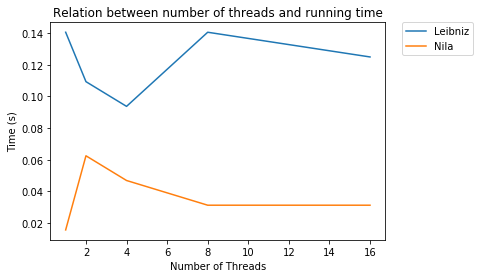
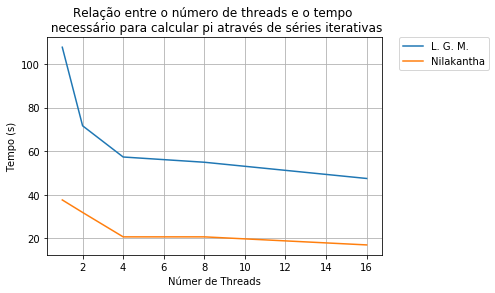
SO25CP 17/07/2020

Changed region(s): [[0.0, 0.0288, 1.0, 0.9784], [0.3125, 0.259, 0.3438, 0.3165], [0.2188, 0.6043, 0.25, 0.6331]]

diff --git a/Trabalho 3/Trabalho3TUDO.c b/Trabalho 3/Trabalho3TUDO.c
@@ -1,0 +1,95 @@
+#include <stdio.h>
+#include <stdlib.h>
+#include <math.h>
+#include <pthread.h>
+#include <unistd.h>
+#include <time.h>
+
+#define NUM_TERMOS 1e9  //Define o número mínimo de termos a ser calculado
+int NUM_THREADS[5] = {1, 2, 4, 8, 16};   //Define o número de threads
+int NUM_TER_THR;  //Define o número de Termos Por Thread
+double *result_piLGM, *result_piNila; //Arrays para resultados parciais
+
+// gcc Trabalho3.c -o Trabalho3 -lm -lpthread && ./Trabalho3 >> ResultadosMeuPc.txt
+
+/*  Séries para aproximação de PI
+ *  Nilakantha:
+ *   pi = 4 * [(3/4) + (1/(2*3*4)) - (1/(4*5*6)) + (1/(6*7*8)) ]
+ *   pi = 4 * [(3/4) + sum( [(-1)^(n+1)] * [1/((2*n)*(2*n + 1)*(2 * n + 2))] ) ]
+ *  
+ *  Leibniz-Gregory-Madhava
+ *   pi = 4 * (1 - 1/3 + 1/5 - 1/7 + 1/)
+ * **/
+
+// Funções para o cálculo dos termos
+double termoLGM(double n){
+    return pow(-1, n) * 1/(2*n + 1);
+}
+
+double termoNila(double n){
+    if((int)n % 2 != 0)
+        return (double)1/(2*n * (2*n + 1) * (2*n + 2));
+    return (double)-1/(2*n * (2*n + 1) * (2*n + 2));
+}
+
+void *LGM(void *threadID){
+    long tid = (long)threadID;
+    for(long i = tid*NUM_TER_THR; i < tid*NUM_TER_THR + NUM_TER_THR; i++)
+        result_piLGM[tid] += termoLGM((double)i);
+    pthread_exit(NULL);
+}
+
+void *Nila(void *threadID){
+    long tid = (long)threadID;
+    for(long i = tid*NUM_TER_THR; i < tid*NUM_TER_THR + NUM_TER_THR; i++)
+        result_piNila[tid] += termoNila((double)i+1);
+    pthread_exit(NULL);
+}
+
+void main(void){
+    
+    long i, status;
+    double resultLGM = 0, resultNila = 0; 
+    clock_t tempoLGM, tempoNila; 
+    for(int idx = 0; idx < 5; idx++){
+        result_piLGM = malloc(sizeof(double) * NUM_THREADS[idx]);
+        result_piNila = malloc(sizeof(double) * NUM_THREADS[idx]);
+        NUM_TER_THR = NUM_TERMOS / NUM_THREADS[idx];
+        printf("Threads: %d\t(%.0lf termos)\n", NUM_THREADS[idx], NUM_TERMOS);
+        pthread_t thread[NUM_THREADS[idx]];//, threadNila[NUM_THREADS];
+        
+        //Executando as threads da Série Leibniz-Gregory-Madhava
+        tempoLGM = clock();
+        for(i = 0; i < NUM_THREADS[idx]; i++){
+            status = pthread_create(&thread[i], NULL, LGM, (void*)i);
+            if(status) {
+                perror("pthread_create");
+                exit(1);
+            }
+            
+        }
+        for(i = 0; i < NUM_THREADS[idx]; i++){
+            pthread_join(thread[i], NULL);
+            resultLGM += result_piLGM[i];
+        }
+        tempoLGM = clock() - tempoLGM;    
+        printf("LGM \tTempo: %.5f s \t%.15f\n", (double)tempoLGM/CLOCKS_PER_SEC, 4*resultLGM);
+
+        //Executando as threads da Série Nilakantha
+        tempoNila = clock();
+        for(i = 0; i < NUM_THREADS[idx]; i++){
+            status = pthread_create(&thread[i], NULL, Nila, (void*)i);
+            if(status) {
+                perror("pthread_create");
+                exit(1);
+            }
+        }
+        for(i = 0; i < NUM_THREADS[idx]; i++){
+            pthread_join(thread[i], NULL);
+            resultNila += result_piNila[i];
+        }
+        tempoNila = clock() - tempoNila;    
+        printf("NIL \tTempo: %.5f s \t%.15f\n", (double)tempoNila/CLOCKS_PER_SEC, 4*resultNila + 3);
+    }
+    pthread_exit(NULL);
+}

diff --git a/Trabalho 3/Trabalho3.c b/Trabalho 3/Trabalho3.c
@@ -3,7 +3,7 @@
 #include <math.h>
 #include <pthread.h>
 #include <unistd.h>
-#include <time.h>
+//#include <time.h>
 
 #define NUM_TERMOS 1e9  //Define o número mínimo de termos a ser calculado
 #define NUM_THREADS 16   //Define o número de threads
@@ -28,8 +28,8 @@ double termoLGM(double n){
 
 double termoNila(double n){
     if((int)n % 2 != 0)
-        return (double)(1/(2*n)) * (1/(2*n + 1)) * (1/(2*n + 2));
-    return (double)(-1/(2*n)) * (1/(2*n + 1)) * (1/(2*n + 2));
+        return (double)1/(2*n * (2*n + 1) * (2*n + 2));
+    return (double)-1/(2*n * (2*n + 1) * (2*n + 2));
 }
 
 void *LGM(void *threadID){
@@ -49,40 +49,46 @@ void *Nila(void *threadID){
 void main(void){
     pthread_t thread[NUM_THREADS];//, threadNila[NUM_THREADS];
     long i, status;
-    double resultLGM = 0, resultNila = 0; 
-    clock_t tempoLGM, tempoNila; 
+    double resultLGM = 0, resultNila = 0.75; 
+    //clock_t tempoLGM, tempoNila; 
 
+    for(int l = 0; l < NUM_THREADS; l++){
+        result_piNila[NUM_THREADS] = 0;
+        result_piLGM[NUM_THREADS] = 0;
+    }
+    
+    printf("Threads: %d\t(%.0lf termos)\n", NUM_THREADS, NUM_TERMOS);
+    
     //Executando as threads da Série Leibniz-Gregory-Madhava
-    tempoLGM = clock();
     for(i = 0; i < NUM_THREADS; i++){
         status = pthread_create(&thread[i], NULL, LGM, (void*)i);
         if(status) {
             perror("pthread_create");
             exit(1);
         }
-        pthread_join(thread[i], NULL);
+        
     }
-    tempoLGM = clock() - tempoLGM;
-
-    //Executando as threads da Série Nilakantha
-    tempoNila = clock();
     for(i = 0; i < NUM_THREADS; i++){
+        pthread_join(thread[i], NULL);
+        resultLGM += result_piLGM[i];
+    }
+    printf("LGM \tTempo: 500 s \t%.15f\n", 4*resultLGM);
+    
+    
+    //Executando as threads da Série Nilakantha
+    /*for(i = 0; i < NUM_THREADS; i++){
         status = pthread_create(&thread[i], NULL, Nila, (void*)i);
         if(status) {
             perror("pthread_create");
             exit(1);
         }
-        pthread_join(thread[i], NULL);
     }
-    tempoNila = clock() - tempoNila;
-
-    //O tempo de realizar as somas não é contabilizado, pois em tese é igual para ambas(? conferir)
     for(i = 0; i < NUM_THREADS; i++){
-        resultLGM += result_piLGM[i];
+        pthread_join(thread[i], NULL);
         resultNila += result_piNila[i];
     }
-    printf("Threads: %d\t(%.0lf termos)\n", NUM_THREADS, NUM_TERMOS);
-    printf("LGM \tTempo: %.50f s \t%.50f\n", (double)tempoLGM/CLOCKS_PER_SEC, 4*resultLGM);
-    printf("NIL \tTempo: %.50f s \t%.50f\n", (double)tempoNila/CLOCKS_PER_SEC, 4*resultNila + 3);
+    printf("NIL \tTempo: 500 s \t%.15f\n", 4*resultNila); */
+
     pthread_exit(NULL);
 }
+//\tTempo: %.5f s  (double)tempoNila/CLOCKS_PER_SEC,

diff --git a/Trabalho 3/plotThreads.py b/Trabalho 3/plotThreads.py
@@ -21,10 +21,12 @@ for line in data:
 timeLGM = np.array(timeLGM)
 timeNila = np.array(timeNila)
 
-plt.plot(arrThreads, timeLGM, label="Leibniz")#
-plt.plot(arrThreads, timeNila, label="Nila")
-plt.title('Relation between number of threads and running time')
-plt.ylabel('Time (s)')
-plt.xlabel('Number of Threads')
+plt.plot(arrThreads, timeLGM, label="L. G. M.")
+plt.plot(arrThreads, timeNila, label="Nilakantha")
+plt.title("Relação entre o número de threads e o tempo \n "
+          "necessário para calcular pi através de séries iterativas")
+plt.ylabel('Tempo (s)')
+plt.xlabel('Númer de Threads')
+plt.grid()
 plt.legend(bbox_to_anchor=(1.05, 1), loc='upper left', borderaxespad=0.)
 plt.show()
